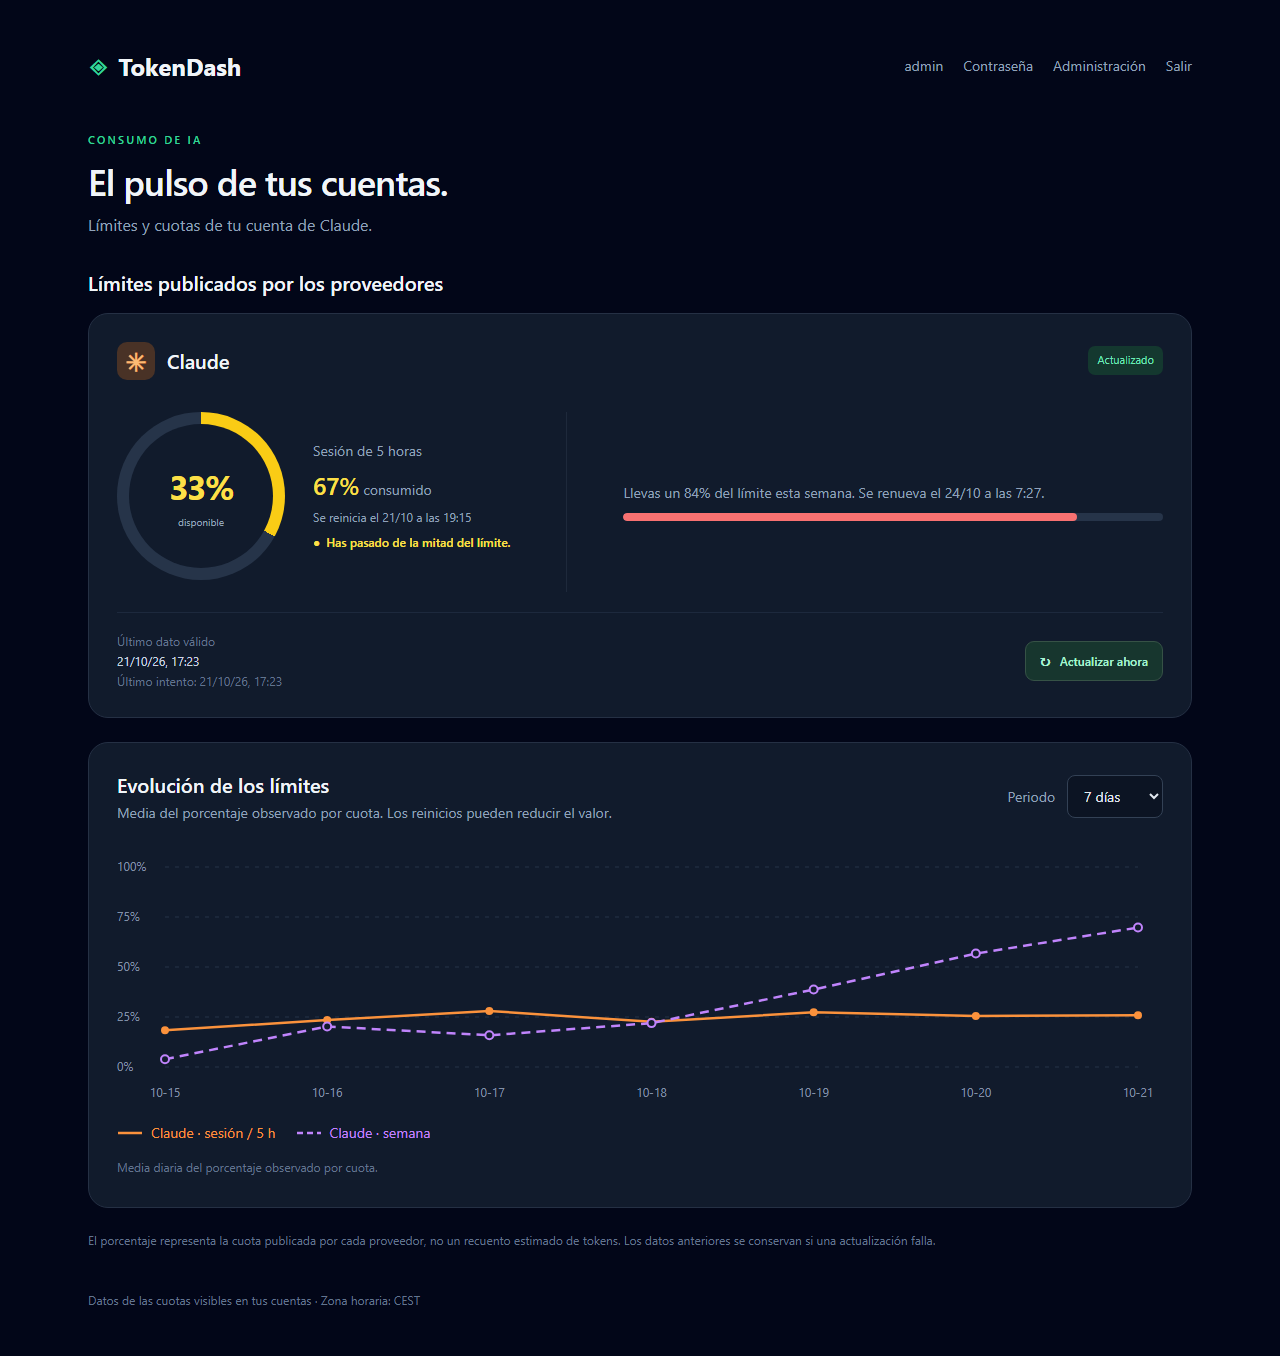
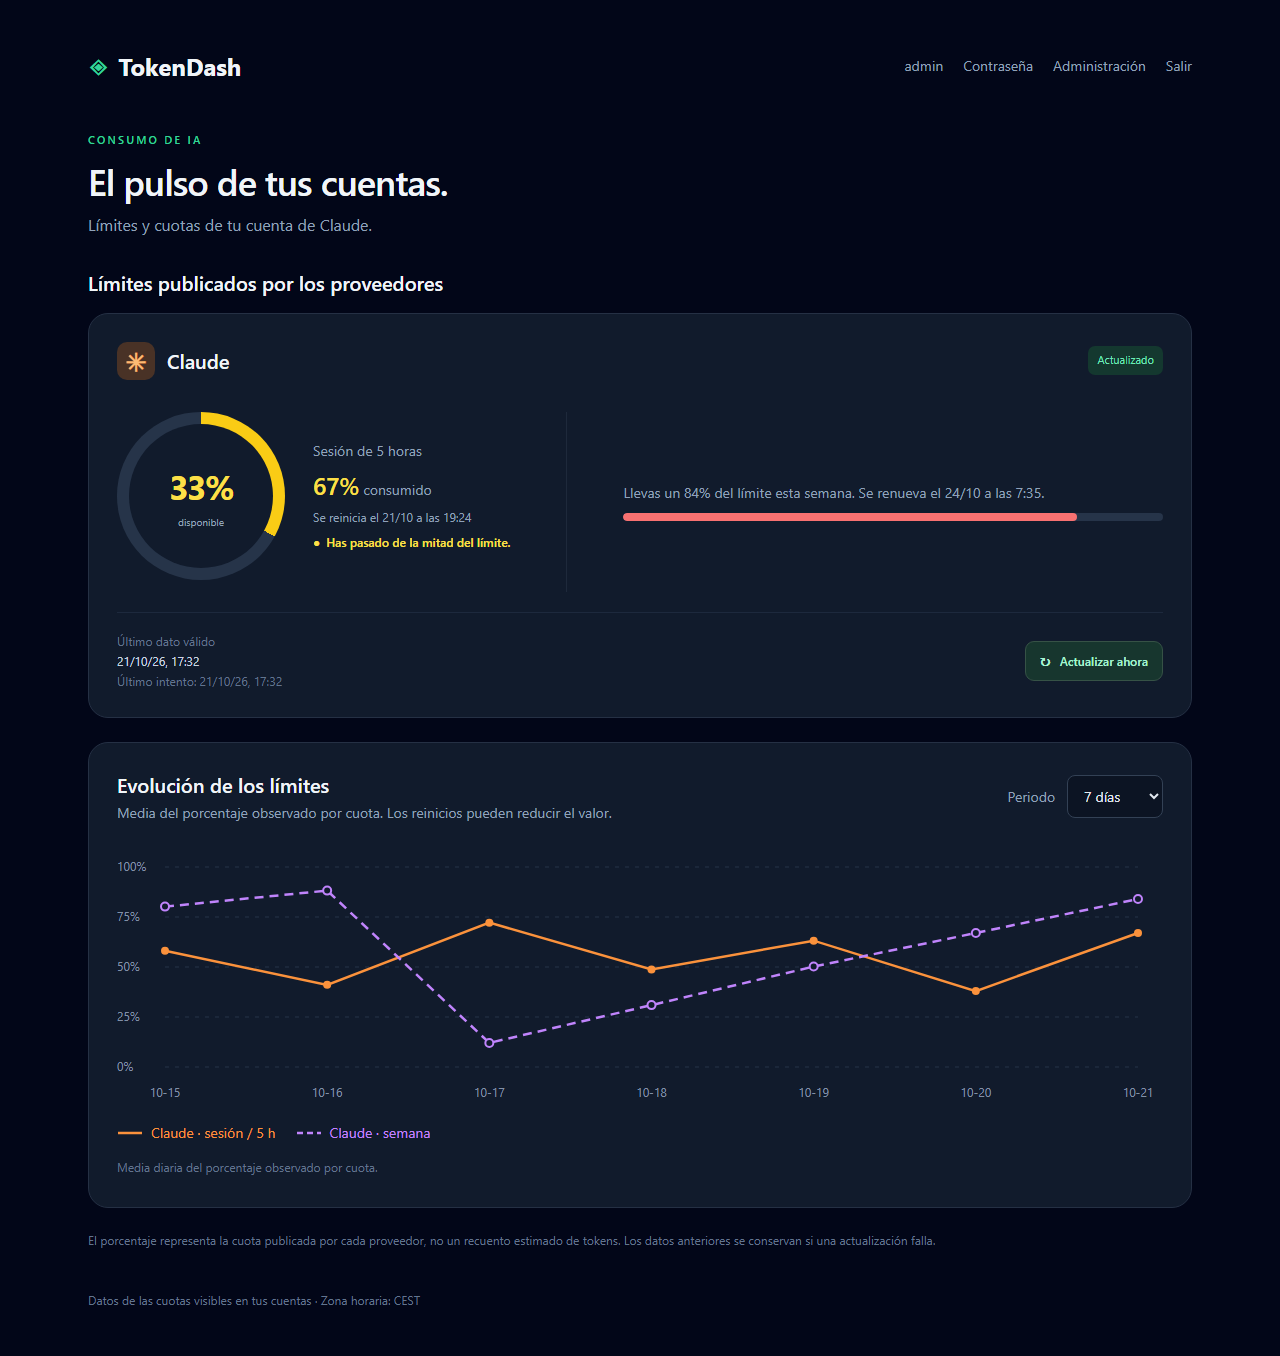
Capturas: la gráfica de ejemplo coincide con las tarjetas
Cada serie es la media diaria y la de hoy es exactamente el valor de su
tarjeta; los límites semanales bajan el día en que se renovaron.

diff --git a/scripts/capturas_demo.py b/scripts/capturas_demo.py
@@ -51,51 +51,59 @@ def iso(delta):
     return (now + delta).isoformat()
 
 
+# Weekly renewals at a fixed local time, a week after the drop in the history below.
+midnight = timezone.localtime(now).replace(hour=0, minute=0, second=0, microsecond=0)
+CHATGPT_WEEK = midnight + timedelta(days=4, hours=22, minutes=35)  # dropped 3 days ago at 22:35
+CLAUDE_WEEK = midnight + timedelta(days=3, hours=7, minutes=35)    # dropped 4 days ago at 7:35
+
+
 def reset_text(delta):
     # The same sentence the readers write (scraper/quotas.py).
     moment = timezone.localtime(now + delta)
     return f"Se reinicia el {formats.date_format(moment, 'j/n')} a las {formats.date_format(moment, 'H:i')}"
 
 
-def seed_history(status, session_key, weekly_key, weekly_reset, intensity):
-    """A week of readings every 20 minutes: 5-hour windows during the day, a weekly total that grows."""
-    readings, session, weekly, window_end = [], 0.0, 0.0, None
-    moment = now - timedelta(days=6, hours=now.hour, minutes=now.minute)
-    while moment <= now:
-        local = timezone.localtime(moment)
-        if window_end and moment >= window_end:
-            session, window_end = 0.0, None
-        if moment.weekday() == weekly_reset and local.hour == 7 and local.minute < 20:
-            weekly = 0.0
-        if 9 <= local.hour < 24 and rng.random() < 0.45:
-            step = rng.uniform(1, 6) * intensity
-            window_end = window_end or moment + timedelta(hours=5)
-            session = min(100.0, session + step)
-            weekly = min(100.0, weekly + step / 7)
-        if window_end:
-            readings.append(UsageLog(provider=status, quota_key=session_key, quota_label='5 horas',
-                                     used_percent=round(session, 2), observed_at=moment))
-        readings.append(UsageLog(provider=status, quota_key=weekly_key, quota_label='Semana',
-                                 used_percent=round(weekly, 2), observed_at=moment))
-        moment += timedelta(minutes=20)
+# The chart draws the daily average of each limit. Every series below is the
+# average of one day, from six days ago to today, and today's value is the one
+# the card shows, so the chart and the cards tell the same story. The weekly
+# limits drop on the day they renewed (the cards give the next renewal).
+CHATGPT = {'session': [34, 18, 46, 27, 52, 15, 23], 'weekly': [55, 63, 72, 79, 9, 24, 41]}
+CLAUDE = {'session': [58, 41, 72, 49, 63, 38, 67], 'weekly_all': [80, 88, 12, 31, 50, 67, 84]}
+
+
+def seed_history(status, series):
+    """Readings every 20 minutes from 8:00 to midnight, around each day's average."""
+    readings = []
+    today = timezone.localtime(now).replace(hour=8, minute=0, second=0, microsecond=0)
+    for key, days in series.items():
+        for days_ago, average in zip(range(6, -1, -1), days):
+            moment, end = today - timedelta(days=days_ago), today - timedelta(days=days_ago - 1, hours=8)
+            values = []
+            while moment < min(end, now):
+                # Today stays on the card's value, so its average is exactly that number.
+                noise = rng.uniform(-2, 2) if days_ago else 0
+                values.append((moment, max(0, min(100, average + noise))))
+                moment += timedelta(minutes=20)
+            readings += [UsageLog(provider=status, quota_key=key, quota_label=key, used_percent=round(value, 2),
+                                  observed_at=moment) for moment, value in values]
     UsageLog.objects.bulk_create(readings)
 
 
 chatgpt = ProviderStatus.objects.get(provider='chatgpt')
 claude = ProviderStatus.objects.get(provider='claude')
-seed_history(chatgpt, 'session', 'weekly', weekly_reset=0, intensity=1.2)
-seed_history(claude, 'session', 'weekly_all', weekly_reset=5, intensity=1.7)
+seed_history(chatgpt, CHATGPT)
+seed_history(claude, CLAUDE)
 ProviderStatus.objects.filter(pk=chatgpt.pk).update(
-    collection_mode='api', state='ok', used_percent=23, quota_label='Codex · ventana de 5 h',
+    collection_mode='api', state='ok', used_percent=CHATGPT['session'][-1], quota_label='Codex · ventana de 5 h',
     last_success_at=now - timedelta(minutes=4), last_attempt_at=now - timedelta(minutes=4), quotas=[
-        {'key': 'session', 'label': 'Codex · ventana de 5 h', 'used_percent': '23.00', 'reset_text': reset_text(timedelta(hours=3, minutes=12)), 'resets_at': iso(timedelta(hours=3, minutes=12))},
-        {'key': 'weekly', 'label': 'Codex · semana', 'used_percent': '41.00', 'reset_text': '', 'resets_at': iso(timedelta(days=4, hours=6))}])
+        {'key': 'session', 'label': 'Codex · ventana de 5 h', 'used_percent': str(CHATGPT['session'][-1]), 'reset_text': reset_text(timedelta(hours=3, minutes=12)), 'resets_at': iso(timedelta(hours=3, minutes=12))},
+        {'key': 'weekly', 'label': 'Codex · semana', 'used_percent': str(CHATGPT['weekly'][-1]), 'reset_text': '', 'resets_at': CHATGPT_WEEK.isoformat()}])
 ProviderCredential.objects.create(provider=chatgpt, secret='demo')
 ProviderStatus.objects.filter(pk=claude.pk).update(
-    collection_mode='client', state='ok', used_percent=67, quota_label='Sesión de 5 horas',
+    collection_mode='client', state='ok', used_percent=CLAUDE['session'][-1], quota_label='Sesión de 5 horas',
     last_success_at=now - timedelta(minutes=4), last_attempt_at=now - timedelta(minutes=4), quotas=[
-        {'key': 'session', 'label': 'Sesión de 5 horas', 'used_percent': '67.00', 'reset_text': reset_text(timedelta(hours=1, minutes=48)), 'resets_at': iso(timedelta(hours=1, minutes=48))},
-        {'key': 'weekly_all', 'label': 'Semana', 'used_percent': '84.00', 'reset_text': '', 'resets_at': iso(timedelta(days=2, hours=14))}])
+        {'key': 'session', 'label': 'Sesión de 5 horas', 'used_percent': str(CLAUDE['session'][-1]), 'reset_text': reset_text(timedelta(hours=1, minutes=48)), 'resets_at': iso(timedelta(hours=1, minutes=48))},
+        {'key': 'weekly_all', 'label': 'Semana', 'used_percent': str(CLAUDE['weekly_all'][-1]), 'reset_text': '', 'resets_at': CLAUDE_WEEK.isoformat()}])
 
 output = ROOT / 'docs' / 'img'
 output.mkdir(parents=True, exist_ok=True)
